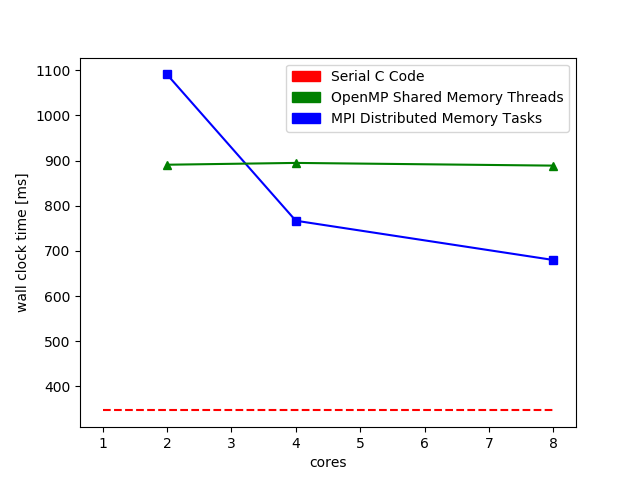
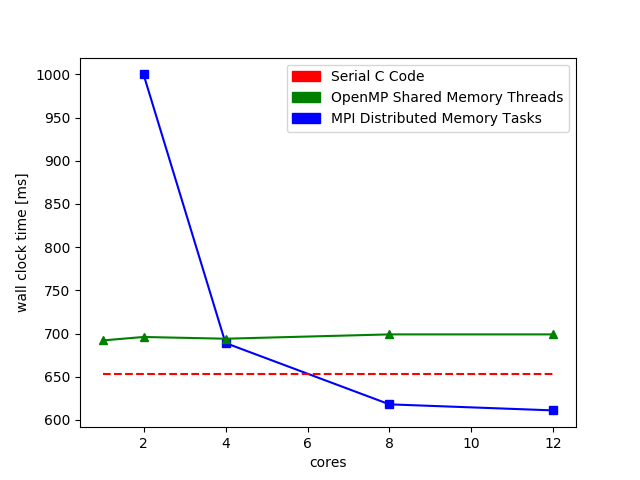
:construction: added dynamic excel output for parallel runtimes

diff --git a/python/parallel_plot.py b/python/parallel_plot.py
@@ -1,7 +1,8 @@
-import os, csv
+import csv, glob, os
 import matplotlib as mpl
 import matplotlib.pyplot as plt
 import matplotlib.patches as mpatches
+from pyexcel.cookbook import merge_all_to_a_book
 
 mpl.use('Agg')
 os.chdir("..")
@@ -13,7 +14,7 @@ runtimes_dict = {}
 for filename in os.listdir(directory):
 	if (filename.endswith('matrix.out')):
 		matrix_files.append(filename) 
-print(runtimes_dict)
+
 for filename in matrix_files:
 	if(filename == "result_serial_matrix.out"):
 		open_file = open(directory + "/" + filename, 'r')
@@ -23,7 +24,7 @@ for filename in matrix_files:
 		x_values = [1, 2, 4, 8, 12]
 		y_values = [int(millisecs), int(millisecs), int(millisecs), int(millisecs), int(millisecs)]
 		runtimes_dict['serial'] = (x_values, y_values)
-		print(runtimes_dict)
+
 	if(filename == "result_open_mp_matrix.out"):
 		open_file = open(directory + "/" + filename, 'r')
 		lines = open_file.readlines()
@@ -40,7 +41,7 @@ for filename in matrix_files:
 		x_values = [1, 2, 4, 8, 12]
 		y_values = [int(millisecs_1), int(millisecs_2), int(millisecs_3), int(millisecs_4), int(millisecs_5)]
 		runtimes_dict['open_mp'] = (x_values, y_values)
-		print(runtimes_dict)
+
 	if(filename == "result_mpi_matrix.out"):
 		open_file = open(directory + "/" + filename, 'r')
 		lines = open_file.readlines()
@@ -55,7 +56,6 @@ for filename in matrix_files:
 		x_values = [2, 4, 8, 12]
 		y_values = [int(millisecs_1), int(millisecs_2), int(millisecs_3), int(millisecs_4)]
 		runtimes_dict['mpi'] = (x_values, y_values)
-		print(runtimes_dict)
 
 red_patch = mpatches.Patch(color = 'red', label = 'Serial C Code')
 green_patch = mpatches.Patch(color = 'green', label = 'OpenMP Shared Memory Threads')
@@ -69,7 +69,22 @@ os.chdir("..")
 os.chdir("python")
 plt.savefig('runtimes_plot.png')
 
-with open('output.csv', 'wb') as output:
-    writer = csv.writer(output)
-    for key, value in runtimes_dict.iteritems():
-        writer.writerow([key, value])
+column_headers = ['Technology','NumCores', 'Runtime']
+csv_list = []
+for each_key in list(runtimes_dict.keys()):
+	rows_per_type = len(runtimes_dict.get(each_key)[0])
+	for i in range(rows_per_type):
+		temp_dict = {column_headers[0]: each_key, column_headers[1]: runtimes_dict.get(each_key)[0][i], column_headers[2]: runtimes_dict.get(each_key)[1][i]}
+		csv_list.append(temp_dict)
+
+currentPath = os.getcwd()
+csv_file = currentPath + "/runtimes.csv"
+
+with open(csv_file, 'w') as csvfile:
+        writer = csv.DictWriter(csvfile, fieldnames = column_headers)
+        writer.writeheader()
+        for data in csv_list:
+            writer.writerow(data)
+merge_all_to_a_book(glob.glob(csv_file), "parallel_runtimes.xlsx")
+
+os.remove(csv_file) 
